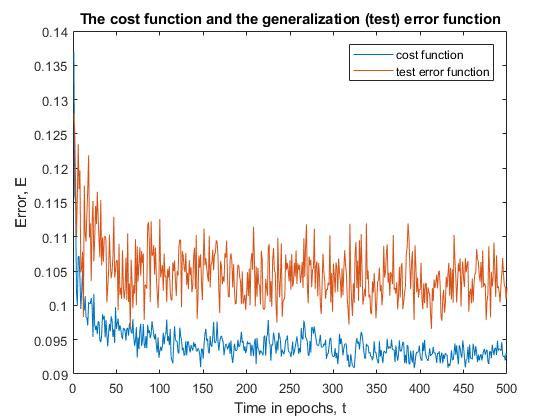
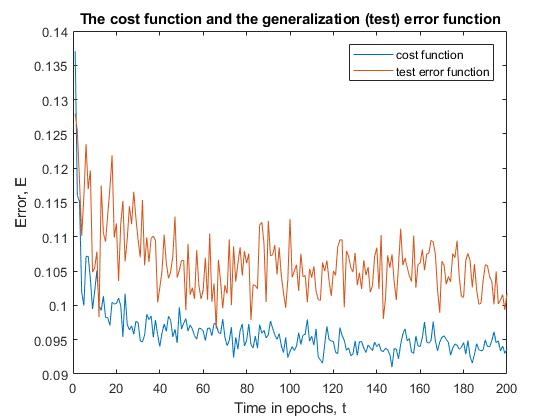
200 epochs

diff --git a/Assignment3/regression.m b/Assignment3/regression.m
@@ -4,7 +4,7 @@ rng(1)
 eta  = 0.05;
 
 % the max number of epochs
-tmax = 500;
+tmax = 200;
 
 % the number of examples we consider for training
 P = 4000;
@@ -92,7 +92,7 @@ for ep=1:tmax
     
     
     
-    % calculate the test (generalization) error
+    % calculate the test (generalization) error at the end of the epoch
     Etest = 0;
     for q=P+1:P+Q
         x = xi(:, q);
